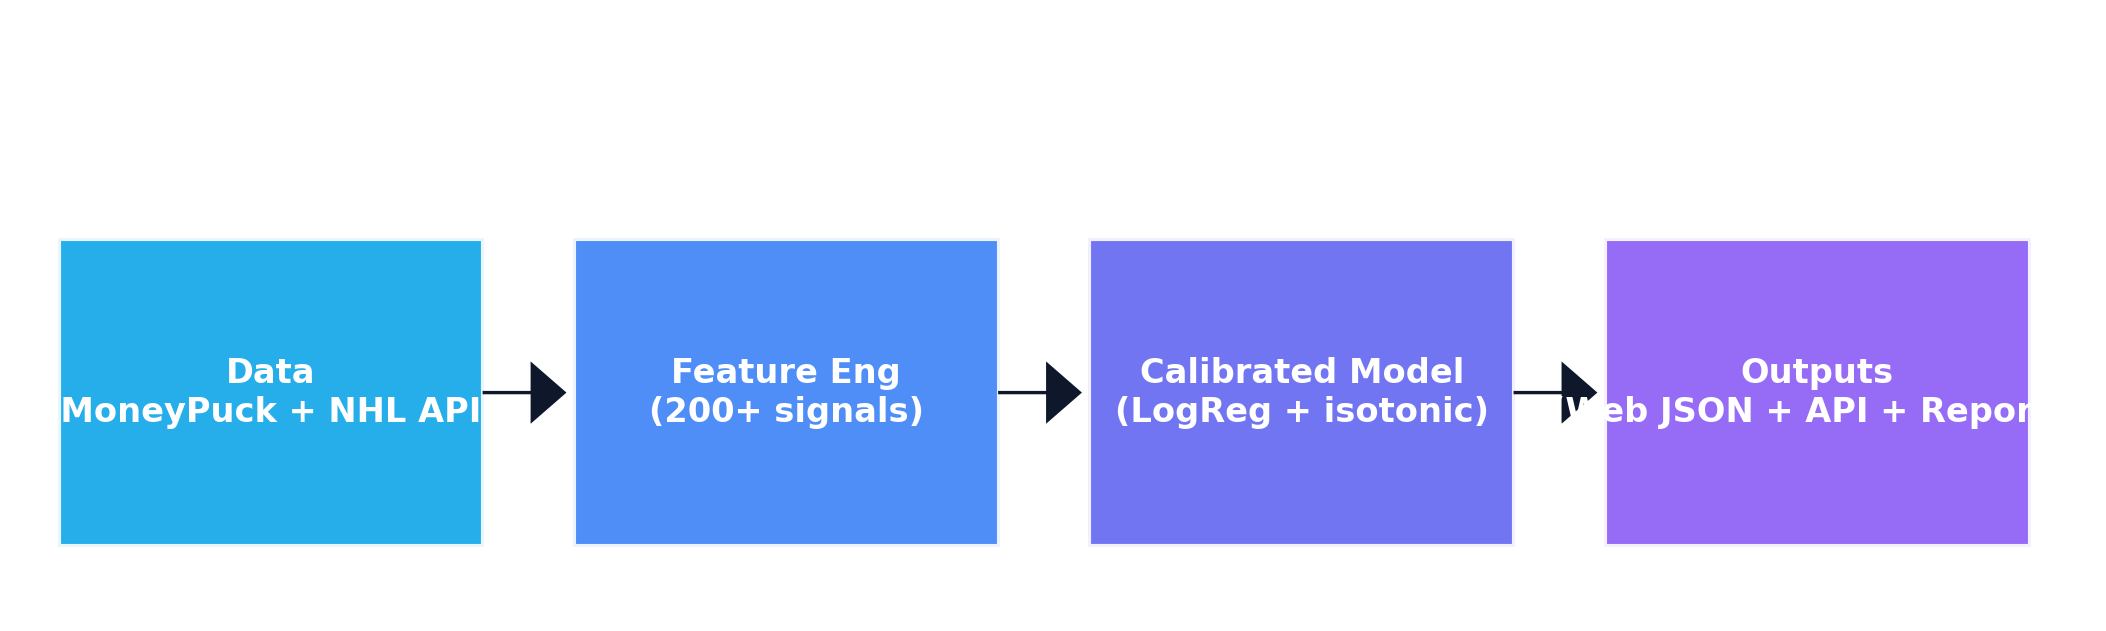
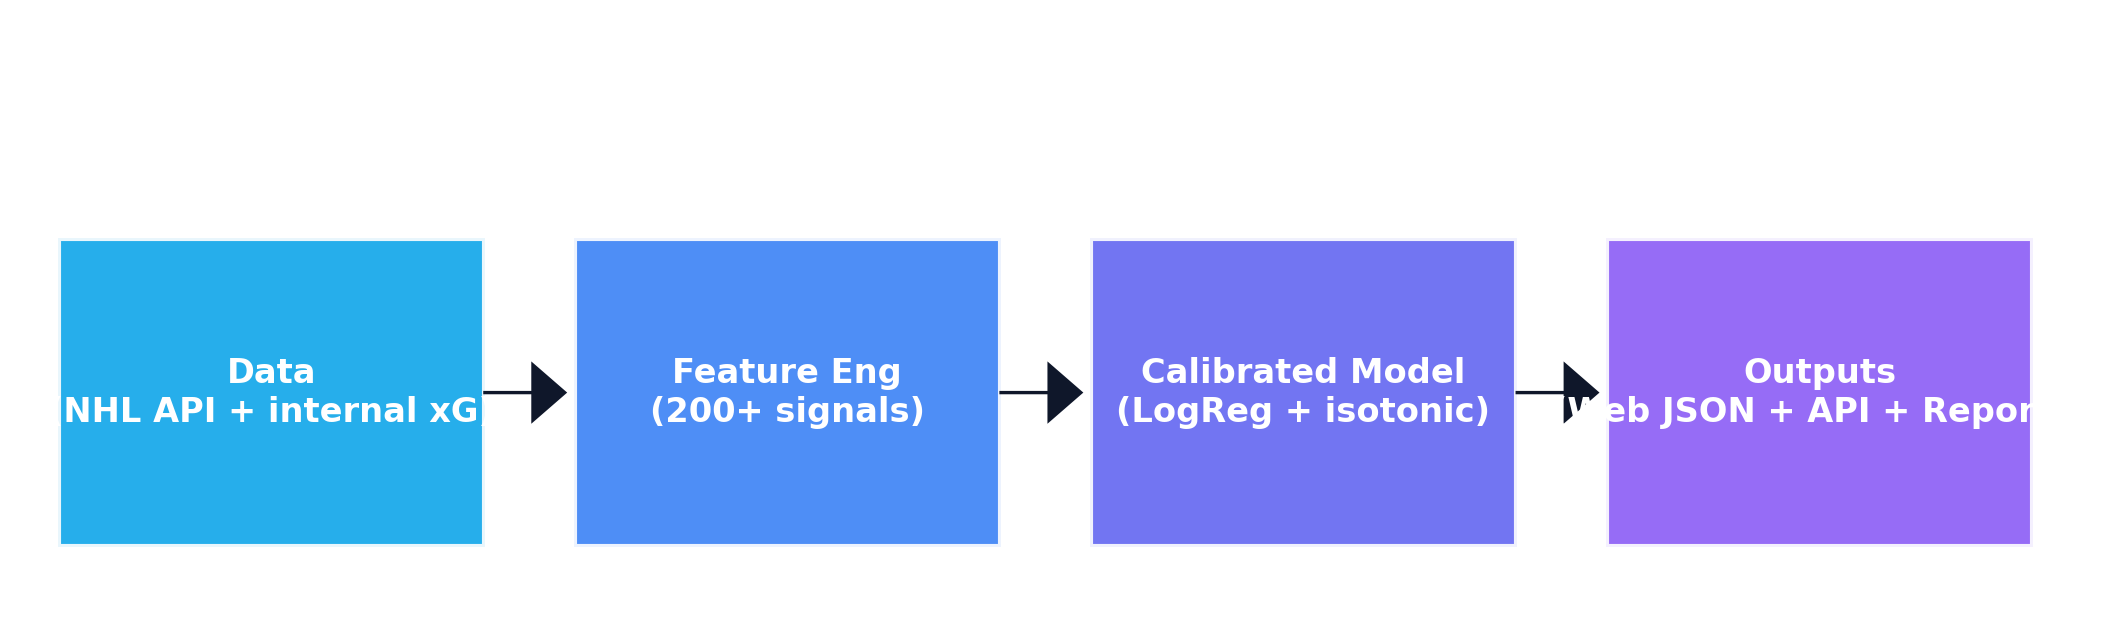
docs: remove MoneyPuck references and regenerate pipeline graphic

diff --git a/docs/group_report_3.md b/docs/group_report_3.md
@@ -13,7 +13,7 @@
 
 ### Quick Visuals
 - Pipeline overview: ![Pipeline](assets/pipeline_diagram.png)  
-  *Data ingest (MoneyPuck + NHL API) → 200+ features → calibrated logreg → JSON/API/reports.*
+  *Data ingest (NHL API + internal xG/shot model) → 200+ features → calibrated logreg → JSON/API/reports.*
 - Automation windows (ET): ![Automation](assets/automation_schedule.png)  
   *Daily post cadence: slate summary at 08:00, then rotating insights through 20:00.*
 - Accuracy lift vs baseline: ![Accuracy](assets/accuracy_comparison.png)  
@@ -44,13 +44,13 @@ Predict NHL game outcomes with calibrated, actionable win probabilities that out
 
 ## Assumptions
 - Regular-season context; playoffs not modeled separately.
-- MoneyPuck + NHL API data are timely and correct; missing data fall back to league-average/zeroed features.
+- NHL API data (schedule/results/plays) are timely and correct; missing data fall back to league-average/zeroed features.
 - No in-game live updating (pregame probabilities only).
 - Current automation schedules (GitHub Actions + Vercel) are available and secrets configured.
 
 ## Analytical Setup & Analysis
-- **Data sources:** MoneyPuck game logs (team-level xG/shot quality/possession), NHL Stats API (schedule/results/teams), special teams and lineup context, goalie/injury ingest. Validation includes schema and freshness checks.
-- **Data pipeline:** Native ingest + cached MoneyPuck pulls; enriched predictions payload with special teams, injury counts, goalie projections, start times, and edges.
+- **Data sources:** NHL Stats API (schedule, results, teams, play-by-play) plus internal xG/shot-quality model; special teams and lineup context; goalie/injury ingest. Validation includes schema and freshness checks.
+- **Data pipeline:** Native ingest + cached internal artifacts; enriched predictions payload with special teams, injury counts, goalie projections, start times, and edges.
 - **Features (200+):** Rolling form (3/5/10), xG/shot quality, special teams splits (PP/PK diff), rest/back-to-back, travel penalties, Elo-like ratings, goaltending quality, injury gap, goalie rest delta, venue/home ice.
 - **Feature engineering approach:** Lagged rolling windows to avoid leakage; deltas (home-away) for matchup context; categorical buckets for rest/travel; calibrated probabilities via isotonic regression; edges expressed in percentage points and graded (A–C).
 - **Modeling:** Calibrated logistic regression (isotonic) chosen for stability and interpretability; native ingest/xG model available as fallback.
@@ -77,7 +77,7 @@ Predict NHL game outcomes with calibrated, actionable win probabilities that out
 - **Operational:** Keep the calibrated model as default; continue daily validation (stale-data + anomaly checks). Monitor API fallback success; keep retries/backoff for predictions API.
 - **Content:** Lead with the 8 AM slate summary; rotate insights (special teams, injury gaps, goalie rest) to avoid “all probability” tone. Maintain handle-safe openings to stay in the Posts tab.
 - **Model:** Next lift likely from richer special-teams and goalie form dynamics; add playoff-specific calibration before postseason.
-- **Data quality:** Maintain MoneyPuck cache freshness; monitor injury/goalie ingest coverage; ensure GitHub secrets stay valid for social posts.
+- **Data quality:** Monitor injury/goalie ingest coverage; ensure GitHub secrets stay valid; keep ingest caches warm and validated.
 
 ## Limitations
 - No live in-game updates; pregame only.
@@ -97,7 +97,7 @@ Predict NHL game outcomes with calibrated, actionable win probabilities that out
 The v6 system is production-stable, calibrated, and automated end-to-end. It meaningfully beats baseline pickers while staying explainable. With the current automation (web, API, and social), the product is user-facing and repeatable; further gains should focus on richer special-teams/goalie dynamics and postseason calibration rather than core pipeline rewrites.
 
 ## References
-- MoneyPuck game-by-game data (https://moneypuck.com)  
-- NHL Stats API (schedule, teams, results)  
+- NHL Stats API (schedule, teams, results, plays)  
+- Internal xG/shot-quality model + derived team logs  
 - scikit-learn (logistic regression, calibration)  
 - Puckcast repository: data pipeline, model code, and automation workflows
